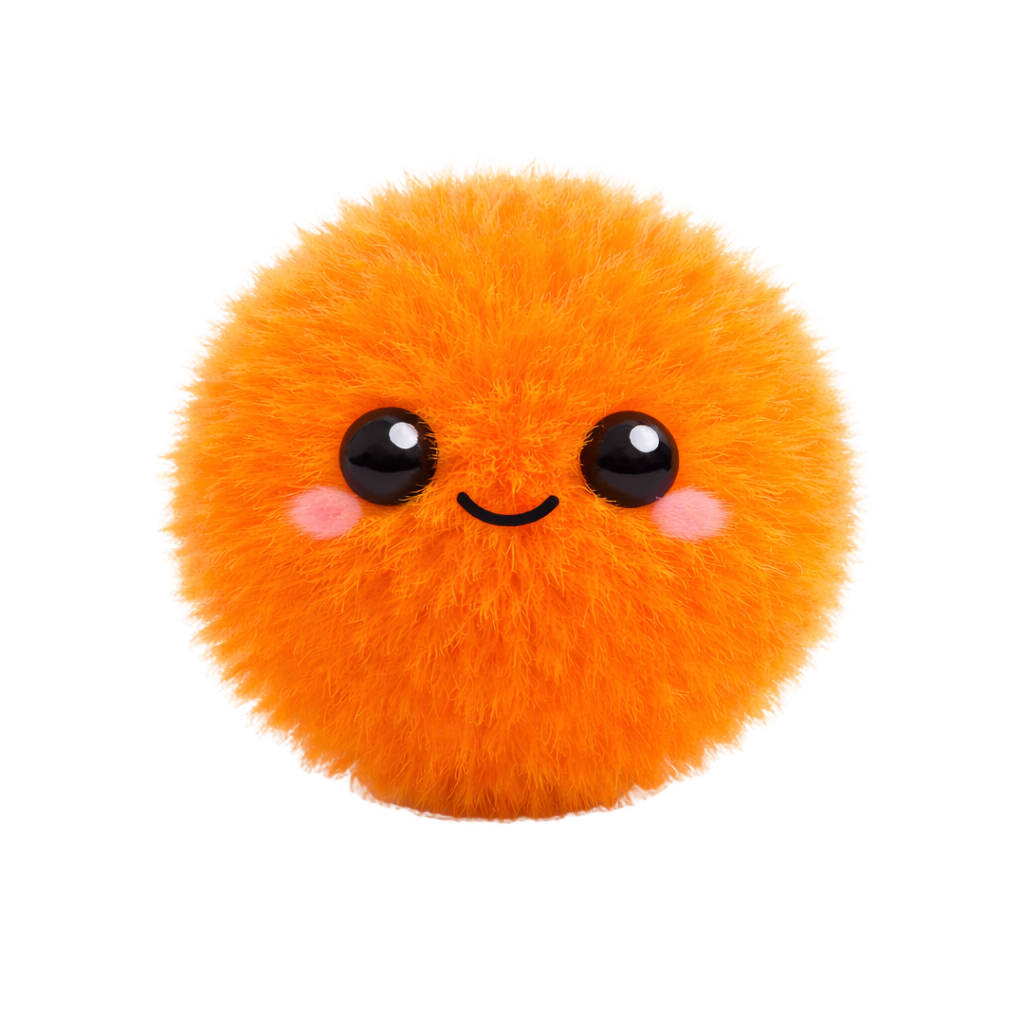
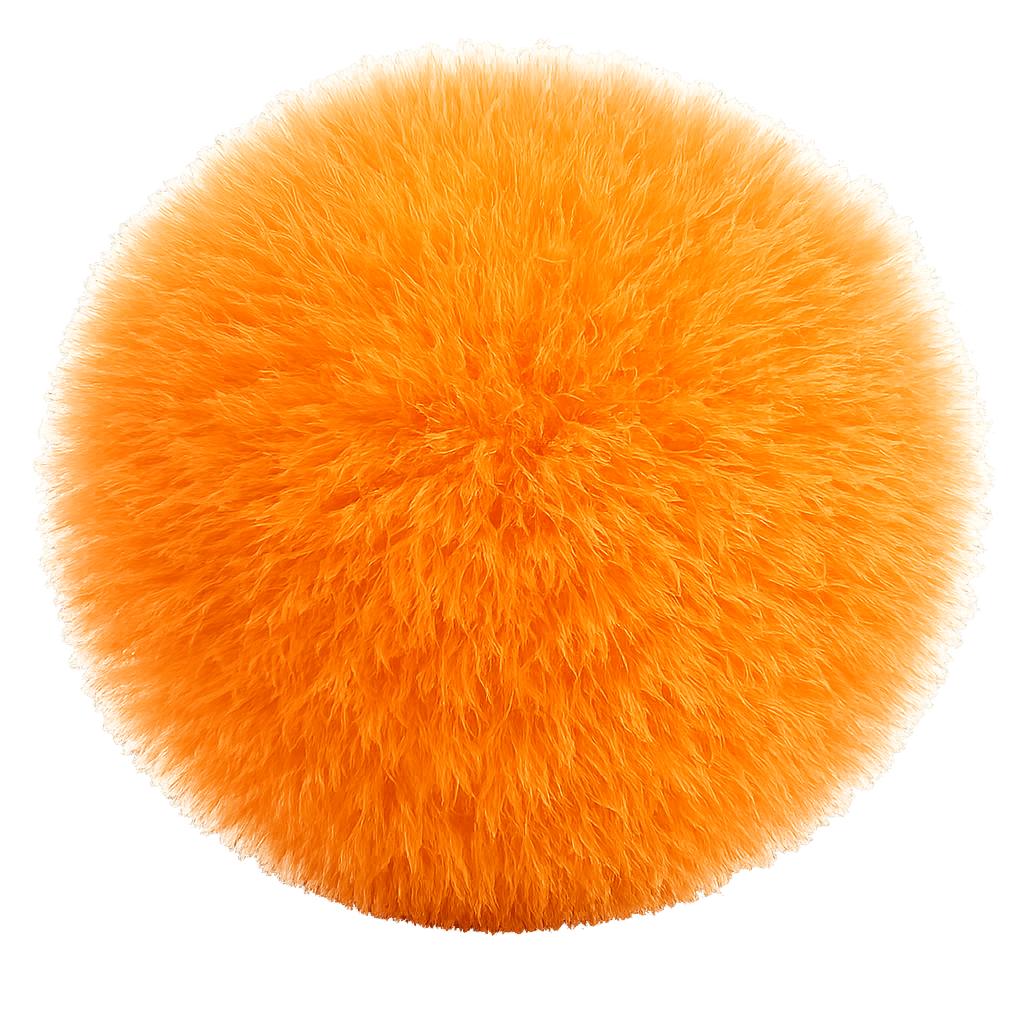
fix: style of blocks

diff --git a/src/pages/HomePage.tsx b/src/pages/HomePage.tsx
@@ -306,6 +306,7 @@ export default function HomePage() {
   const [newsItems, setNewsItems] = useState<NewsItem[]>([])
   const [contentError, setContentError] = useState<string | null>(null)
   const [auditEmail, setAuditEmail] = useState('')
+  const [auditConsent, setAuditConsent] = useState(false)
   const [auditStatus, setAuditStatus] = useState<'idle' | 'loading' | 'error'>('idle')
   const [auditError, setAuditError] = useState<string | null>(null)
   const [contactForm, setContactForm] = useState({
@@ -314,6 +315,7 @@ export default function HomePage() {
     name: '',
     website: '',
   })
+  const [contactConsent, setContactConsent] = useState(false)
   const [contactStatus, setContactStatus] = useState<'idle' | 'loading' | 'error'>('idle')
   const [contactError, setContactError] = useState<string | null>(null)
   const heroTypeWidth = Math.max(...heroTitleVariants.map((variant) => variant.length))
@@ -463,7 +465,7 @@ export default function HomePage() {
             </div>
 
             <div className="about__mascot">
-              <img src="/assets/hero-mascot.png" alt="Талисман Tekstura" />
+              <img src="/assets/hero-mascot3.png" alt="Талисман Tekstura" />
             </div>
           </div>
         </section>
@@ -563,16 +565,25 @@ export default function HomePage() {
               className="newsletter__form"
               onSubmit={async (event) => {
                 event.preventDefault()
+
+                if (!auditConsent) {
+                  setAuditStatus('error')
+                  setAuditError('Подтвердите согласие на обработку персональных данных.')
+                  return
+                }
+
                 setAuditStatus('loading')
                 setAuditError(null)
 
                 try {
                   await submitAuditForm({
+                    consentToProcessing: auditConsent,
                     email: auditEmail,
                     source: 'landing-page',
                     website: '',
                   })
                   setAuditEmail('')
+                  setAuditConsent(false)
                   setAuditStatus('idle')
                   openSuccessModal('Спасибо. Мы свяжемся с вами и согласуем удобный формат.')
                 } catch (error) {
@@ -581,14 +592,23 @@ export default function HomePage() {
                 }
               }}
             >
-              <input
-                type="email"
-                name="email"
-                placeholder="Ваш E-mail"
-                value={auditEmail}
-                onChange={(event) => setAuditEmail(event.target.value)}
-                required
-              />
+              <div className="newsletter__row">
+                <input
+                  type="email"
+                  name="email"
+                  placeholder="Ваш E-mail"
+                  value={auditEmail}
+                  onChange={(event) => setAuditEmail(event.target.value)}
+                  required
+                />
+                <button
+                  className="button button--primary newsletter__submit"
+                  type="submit"
+                  disabled={auditStatus === 'loading' || !auditConsent}
+                >
+                  {auditStatus === 'loading' ? 'ОТПРАВКА...' : 'Записаться'}
+                </button>
+              </div>
               <input
                 className="form-honeypot"
                 type="text"
@@ -597,9 +617,19 @@ export default function HomePage() {
                 autoComplete="off"
                 aria-hidden="true"
               />
-              <button className="button button--primary newsletter__submit" type="submit" disabled={auditStatus === 'loading'}>
-                {auditStatus === 'loading' ? 'ОТПРАВКА...' : 'Записаться'}
-              </button>
+              <div className="form-consent newsletter__consent">
+                <input
+                  id="audit-consent"
+                  type="checkbox"
+                  checked={auditConsent}
+                  onChange={(event) => setAuditConsent(event.target.checked)}
+                  required
+                />
+                <label htmlFor="audit-consent">
+                  Я соглашаюсь на обработку персональных данных и принимаю{' '}
+                  <Link to="/privacy-policy">политику конфиденциальности</Link>.
+                </label>
+              </div>
             </form>
 
             {auditError ? <p className="form-status form-status--error">{auditError}</p> : null}
@@ -786,17 +816,28 @@ export default function HomePage() {
                 className="contact-form"
                 onSubmit={async (event) => {
                   event.preventDefault()
+
+                  if (!contactConsent) {
+                    setContactStatus('error')
+                    setContactError('Подтвердите согласие на обработку персональных данных.')
+                    return
+                  }
+
                   setContactStatus('loading')
                   setContactError(null)
 
                   try {
-                    await submitContactForm(contactForm)
+                    await submitContactForm({
+                      ...contactForm,
+                      consentToProcessing: contactConsent,
+                    })
                     setContactForm({
                       email: '',
                       message: '',
                       name: '',
                       website: '',
                     })
+                    setContactConsent(false)
                     setContactStatus('idle')
                     openSuccessModal('Ваш вопрос успешно отправлен.')
                   } catch (error) {
@@ -847,7 +888,24 @@ export default function HomePage() {
                     setContactForm((current) => ({ ...current, website: event.target.value }))
                   }
                 />
-                <button className="button button--primary contact-form__submit" type="submit" disabled={contactStatus === 'loading'}>
+                <div className="form-consent">
+                  <input
+                    id="contact-consent"
+                    type="checkbox"
+                    checked={contactConsent}
+                    onChange={(event) => setContactConsent(event.target.checked)}
+                    required
+                  />
+                  <label htmlFor="contact-consent">
+                    Я соглашаюсь на обработку персональных данных и принимаю{' '}
+                    <Link to="/privacy-policy">политику конфиденциальности</Link>.
+                  </label>
+                </div>
+                <button
+                  className="button button--primary contact-form__submit"
+                  type="submit"
+                  disabled={contactStatus === 'loading' || !contactConsent}
+                >
                   {contactStatus === 'loading' ? 'Отправка...' : 'Отправить'}
                 </button>
                 {contactError ? <p className="form-status form-status--error">{contactError}</p> : null}

diff --git a/src/App.css b/src/App.css
@@ -433,7 +433,7 @@
 
 .about__content {
   display: grid;
-  grid-template-columns: 588px 418px;
+  grid-template-columns: 560px 500px;
   justify-content: space-between;
   align-items: center;
   gap: 48px;
@@ -462,7 +462,7 @@
 }
 
 .about__mascot img {
-  width: 418px;
+  width: 500px;
   max-width: 100%;
 }
 
@@ -752,8 +752,17 @@
 
 .newsletter__form {
   display: flex;
-  gap: 16px;
+  flex-direction: column;
+  align-items: center;
+  gap: 12px;
   margin-top: 48px;
+}
+
+.newsletter__row {
+  display: flex;
+  gap: 16px;
+  width: 100%;
+  justify-content: center;
 }
 
 .newsletter__form input,
@@ -768,6 +777,40 @@
   font-size: 1rem;
   line-height: 1.4;
   letter-spacing: 0.004em;
+}
+
+.form-consent {
+  display: flex;
+  align-items: flex-start;
+  gap: 10px;
+  width: 100%;
+  color: var(--color-text-soft);
+  font-family: var(--font-geist);
+  font-size: 14px;
+  line-height: 1.45;
+}
+
+.form-consent input[type='checkbox'] {
+  width: 18px;
+  height: 18px;
+  margin: 1px 0 0;
+  accent-color: var(--color-orange);
+  flex: 0 0 auto;
+}
+
+.form-consent label {
+  margin: 0;
+}
+
+.form-consent a {
+  color: var(--color-orange);
+  text-decoration: underline;
+  text-underline-offset: 2px;
+}
+
+.newsletter__consent {
+  margin-top: 4px;
+  max-width: 680px;
 }
 
 .newsletter__form input {
@@ -1965,7 +2008,7 @@
   }
 
   .about__mascot img {
-    width: 418px;
+    width: 500px;
   }
 
   .services__grid {
@@ -2017,7 +2060,6 @@
 
   .newsletter__form {
     width: 100%;
-    justify-content: center;
     margin-top: 0;
   }
 
@@ -2224,7 +2266,7 @@
   }
 
   .about__mascot img {
-    width: 314px;
+    width: 360px;
   }
 
   .services__grid {
@@ -2317,9 +2359,12 @@
   }
 
   .newsletter__form {
-    flex-direction: column;
     width: 100%;
     margin-top: 0;
+  }
+
+  .newsletter__row {
+    flex-direction: column;
   }
 
   .newsletter__form input {
@@ -2333,6 +2378,11 @@
     min-height: 47px;
     padding-block: 12px;
     font-size: 15px;
+  }
+
+  .form-consent {
+    font-size: 12px;
+    line-height: 1.4;
   }
 
   .newsletter__note {

diff --git a/server/routes/public.ts b/server/routes/public.ts
@@ -5,12 +5,18 @@ import { createExcerpt } from '../lib/content'
 import { sendAuditRequestEmail, sendContactRequestEmail } from '../lib/mailer'
 
 const auditSchema = z.object({
+  consentToProcessing: z
+    .boolean()
+    .refine((value) => value, 'Подтвердите согласие на обработку персональных данных.'),
   email: z.string().email('Укажите корректный e-mail.'),
   source: z.string().trim().max(120).optional(),
   website: z.string().trim().max(120).optional(),
 })
 
 const contactSchema = z.object({
+  consentToProcessing: z
+    .boolean()
+    .refine((value) => value, 'Подтвердите согласие на обработку персональных данных.'),
   name: z.string().trim().min(2, 'Укажите имя.').max(120),
   email: z.string().email('Укажите корректный e-mail.'),
   message: z.string().trim().min(5, 'Опишите вопрос подробнее.').max(4000),

diff --git a/src/lib/api.ts b/src/lib/api.ts
@@ -99,7 +99,12 @@ export async function fetchNewsItem(slug: string) {
   return response.item
 }
 
-export async function submitAuditForm(payload: { email: string; source?: string; website?: string }) {
+export async function submitAuditForm(payload: {
+  consentToProcessing: boolean
+  email: string
+  source?: string
+  website?: string
+}) {
   return request<{ ok: true }>('/api/forms/audit', {
     body: payload,
     method: 'POST',
@@ -107,6 +112,7 @@ export async function submitAuditForm(payload: { email: string; source?: string;
 }
 
 export async function submitContactForm(payload: {
+  consentToProcessing: boolean
   email: string
   message: string
   name: string
